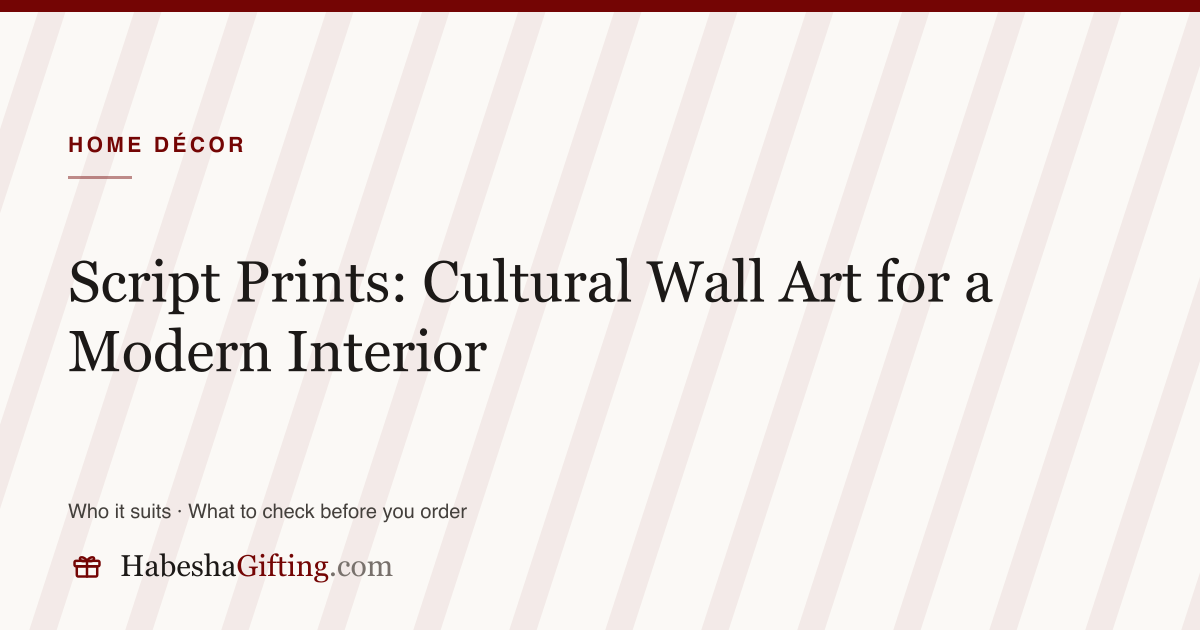
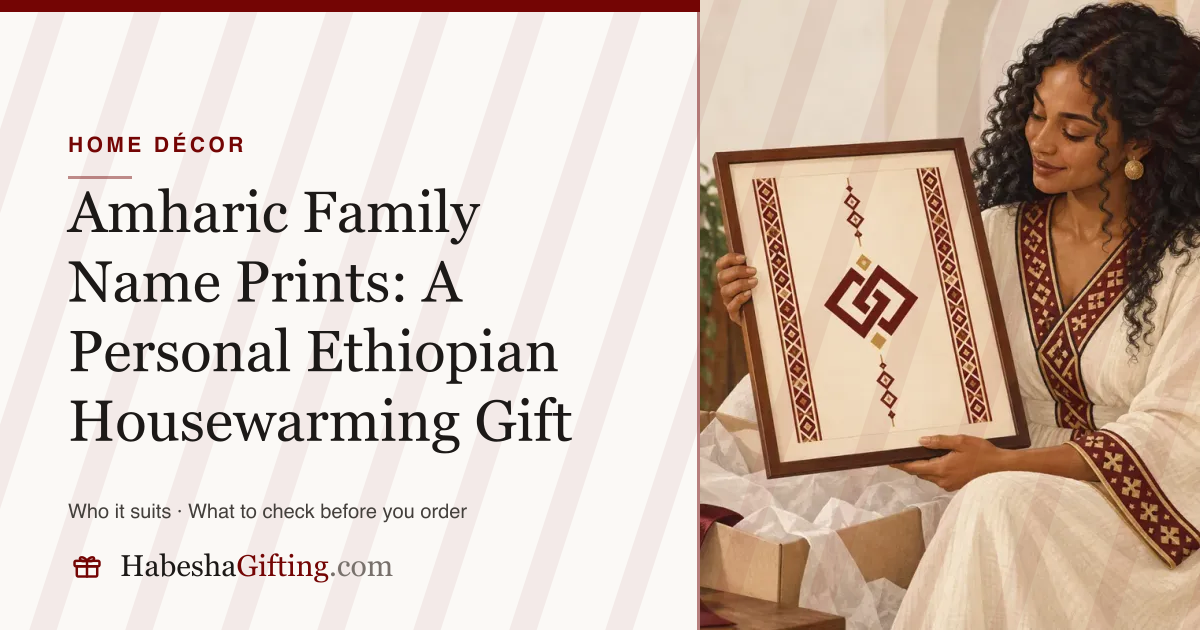
Improve Ethiopian and Eritrean gift guidance for search

diff --git a/src/app/gifts/[category]/page.tsx b/src/app/gifts/[category]/page.tsx
@@ -1,4 +1,5 @@
 import type { Metadata } from "next";
+import Link from "next/link";
 import { notFound } from "next/navigation";
 import { Breadcrumbs, JsonLd } from "@/components/ui/Breadcrumbs";
 import { CategoryCard } from "@/components/ui/CategoryCard";
@@ -58,6 +59,7 @@ export default async function CategoryPage({ params }: { params: Params }) {
   ];
 
   const path = routes.category(category.slug);
+  const isCultural = category.slug === "ethiopian-eritrean-gifts";
 
   const jsonLd = graph(
     ...webPageNode({
@@ -123,6 +125,75 @@ export default async function CategoryPage({ params }: { params: Params }) {
           })}
         </div>
       </section>
+
+      {isCultural && (
+        <section aria-labelledby="cultural-guide-heading" className="mt-20 max-w-4xl border-t border-line pt-12">
+          <p className="eyebrow">Choosing a meaningful gift</p>
+          <h2 id="cultural-guide-heading" className="mt-3 font-display text-3xl font-semibold text-ink">
+            How to choose an Ethiopian or Eritrean gift
+          </h2>
+          <div className="prose-editorial mt-6 space-y-5">
+            <p>
+              First, decide whether the gift should be used, displayed or kept as a personal
+              reminder. A <Link href={routes.guide("traditional-clay-jebena-coffee-pot")}>clay jebena</Link>
+              {" "}suits someone who already hosts coffee or wants to start. A {" "}
+              <Link href={routes.guide("woven-mesob-inspired-basket")}>woven mesob-inspired basket</Link>
+              {" "}is a home gift, but check its dimensions and intended use before buying.
+              A personalised print or piece of jewellery needs the recipient&rsquo;s preferred
+              name, language and spelling.
+            </p>
+            <p>
+              If you are unsure which tradition or language to reference, choose something
+              shared, such as a coffee gift, and ask a family member before ordering custom
+              text. A design described as &ldquo;Habesha&rdquo; can be appropriate across both
+              communities, but it cannot tell you whether a particular person would prefer
+              Amharic, Tigrinya or no writing at all.
+            </p>
+          </div>
+
+          <h3 className="mt-10 font-display text-2xl font-semibold text-ink">Common gift questions</h3>
+          <dl className="mt-5 space-y-7">
+            <div>
+              <dt className="font-semibold text-ink">What is a useful Habesha housewarming gift?</dt>
+              <dd className="mt-2 leading-relaxed text-ink-soft">
+                A coffee ceremony piece can be useful if the recipient hosts coffee. Check
+                whether they need a pot, tray or serving cups first; a duplicate may take up
+                precious space. Start with our {" "}
+                <Link href={routes.category("coffee-traditional-gifts")} className="text-brand underline-offset-4 hover:underline">coffee and traditional gifts</Link>
+                {" "}collections.
+              </dd>
+            </div>
+            <div>
+              <dt className="font-semibold text-ink">What should I check before buying a jebena as a gift?</dt>
+              <dd className="mt-2 leading-relaxed text-ink-soft">
+                Check the size, whether the pot is for use or display, what heat source it can
+                tolerate, and how it will be packed for shipping. The {" "}
+                <Link href={routes.guide("traditional-clay-jebena-coffee-pot")} className="text-brand underline-offset-4 hover:underline">clay jebena guide</Link>
+                {" "}explains these trade-offs.
+              </dd>
+            </div>
+            <div>
+              <dt className="font-semibold text-ink">Is an Amharic gift right for an Eritrean recipient?</dt>
+              <dd className="mt-2 leading-relaxed text-ink-soft">
+                It depends on the person and the message. Do not assume a shared Habesha identity
+                means the recipient wants Amharic text. Ask which language they use and verify
+                any custom wording before it is printed or engraved. Browse {" "}
+                <Link href={routes.subcategory(category.slug, "eritrean-inspired")} className="text-brand underline-offset-4 hover:underline">Eritrean gift ideas</Link>
+                {" "}for alternatives.
+              </dd>
+            </div>
+            <div>
+              <dt className="font-semibold text-ink">What makes a personalised cultural gift feel personal?</dt>
+              <dd className="mt-2 leading-relaxed text-ink-soft">
+                A name, phrase or date the recipient would choose themselves matters more than
+                a generic cultural motif. For script gifts, confirm the exact characters,
+                preview the layout and check the return policy before ordering. See the {" "}
+                <Link href={routes.guide("amharic-family-name-print")} className="text-brand underline-offset-4 hover:underline">Amharic family name print guide</Link>.
+              </dd>
+            </div>
+          </dl>
+        </section>
+      )}
 
       <section className="gift-panel mt-20 overflow-hidden rounded-card border border-line bg-cream p-8 sm:p-10">
         <SectionHeading

diff --git a/src/content/categories.ts b/src/content/categories.ts
@@ -363,10 +363,10 @@ export const categories: Category[] = [
     slug: "ethiopian-eritrean-gifts",
     title: "Ethiopian & Eritrean Gifts",
     icon: "🇪🇹",
-    tagline: "Cultural gifts rooted in both traditions, under one Habesha roof.",
-    heading: "Ethiopian & Eritrean Gifts",
+    tagline: "Ethiopian and Eritrean gift ideas, with practical guides to coffee, script, jewellery and home pieces.",
+    heading: "Ethiopian & Eritrean Gift Ideas",
     intro:
-      "Habesha is the umbrella here, not a flattening. Some gifts are distinctly Ethiopian, some distinctly Eritrean, and many belong to both. We label them honestly rather than blurring the difference.",
+      "Looking for a Habesha gift? Start with what the person will actually use: a coffee ceremony piece, something for their home, or a personal keepsake. Ethiopian and Eritrean traditions overlap, but language and design details matter. Browse the separate collections below, then read each buying guide for the questions to ask before ordering.",
     childLabel: "Collections",
     art: { hue: 100, motif: "weave" },
     inNav: false,
@@ -376,20 +376,20 @@ export const categories: Category[] = [
         slug: "ethiopian-inspired",
         title: "Ethiopian-Inspired Gifts",
         icon: "🇪🇹",
-        tagline: "Gifts drawing on Ethiopian craft, script and design.",
+        tagline: "Amharic script, Ethiopian design and gift ideas with a clear reason to give them.",
         heading: "Ethiopian Gift Ideas",
         intro:
-          "From Amharic script jewellery to habesha kemis-inspired textiles, these gifts draw specifically on Ethiopian craft traditions.",
+          "For an Ethiopian gift, look for a connection the recipient will recognise: an Amharic inscription, a design they enjoy wearing, or a useful piece for their home. Check the script and the seller's customisation details before ordering; a cultural label alone does not make a gift personal.",
         art: { hue: 95, motif: "cross" },
       },
       {
         slug: "eritrean-inspired",
         title: "Eritrean-Inspired Gifts",
         icon: "🇪🇷",
-        tagline: "Gifts drawing on Eritrean craft, script and design.",
+        tagline: "Tigrinya script and Eritrean-inspired keepsakes chosen for the person receiving them.",
         heading: "Eritrean Gift Ideas",
         intro:
-          "Tigrinya script pieces, Asmara-inspired design and Eritrean craft traditions — gifts that are specifically Eritrean rather than generically Habesha.",
+          "Eritrean gift ideas work best when the details match the person. If you choose a Tigrinya inscription or an Asmara reference, confirm the wording, spelling and design with someone who knows what the recipient would want. The guides below explain where each idea fits and what to check before buying.",
         art: { hue: 210, motif: "arch" },
       },
       {

diff --git a/src/content/products.coffee.ts b/src/content/products.coffee.ts
@@ -19,13 +19,13 @@ export const coffeeProducts: Product[] = [
     affiliateUrl: null,
     image: "/img/products/traditional-clay-jebena-coffee-pot",
     art: { hue: 22, motif: "vessel" },
-    updated: "2026-08-14",
+    updated: "2026-09-16",
     tags: ["coffee", "jebena", "ceremony", "ethiopian", "eritrean", "traditional", "kitchen"],
     placements: [
       { category: "coffee-traditional-gifts", subcategory: "jebena-coffee-pots" },
     ],
     guide: {
-      heading: "The Traditional Clay Jebena: What to Know Before You Buy One",
+      heading: "Ethiopian & Eritrean Jebena Gifts: Choosing a Traditional Clay Pot",
       standfirst:
         "A clay jebena is the most recognisable gift you can give a Habesha household — and the one most likely to be bought wrongly. Here is how to choose the right one.",
       why: [
@@ -49,6 +49,10 @@ export const coffeeProducts: Product[] = [
         "Unglazed clay must be cured before first use, usually by boiling water in it once or twice and discarding it. If your recipient will not do this, a glazed or ceramic version is more forgiving.",
         "Ask, discreetly, what size they need. A pot sized for two people is a frustrating gift for someone who hosts twelve.",
         "Clay is heavy and brittle. If it is being posted internationally, packaging quality matters more than the pot itself.",
+      ],
+      questions: [
+        { question: "Is a clay jebena a good housewarming gift?", answer: "Yes, if the recipient wants to make coffee in one and has room to keep it. Ask whether they already own a pot and how many guests they usually serve before choosing a size." },
+        { question: "Can every clay jebena go on a stove?", answer: "No. Some are decorative only. Check the seller's heat-use instructions for the exact pot and the recipient's heat source before ordering; do not infer stovetop safety from its shape." },
       ],
       pros: [
         "Traditional material with the best heat behaviour",

diff --git a/src/content/products.cultural.ts b/src/content/products.cultural.ts
@@ -131,13 +131,13 @@ export const culturalProducts: Product[] = [
     affiliateUrl: null,
     image: "/img/products/amharic-family-name-print",
     art: { hue: 25, motif: "arch" },
-    updated: "2026-07-05",
+    updated: "2026-09-16",
     tags: ["print", "wall art", "amharic", "personalized", "home decor", "housewarming", "typography"],
     placements: [
       { category: "personalized-gifts", subcategory: "personalized-home-decor" },
     ],
     guide: {
-      heading: "Script Prints: Cultural Wall Art for a Modern Interior",
+      heading: "Amharic Family Name Prints: A Personal Ethiopian Housewarming Gift",
       standfirst:
         "A well-set Ge'ez typographic print is the easiest way to make a contemporary home read as Habesha without a single cliché.",
       why: [
@@ -161,6 +161,10 @@ export const culturalProducts: Product[] = [
         "Check whether the price includes a frame. Many listings show a framed mock-up and ship the print alone.",
         "Ask about the font. Poorly digitised Ge'ez typefaces have awkward character spacing that a reader will notice immediately even if you would not.",
         "Confirm print size against the wall you have in mind. Prints photograph without scale and A4 is smaller than most people picture.",
+      ],
+      questions: [
+        { question: "How do I check an Amharic name before ordering a print?", answer: "Ask the recipient or a fluent family member for the exact spelling in Ge'ez script, then compare every character in the seller's proof. Do not rely on automatic transliteration for a family name." },
+        { question: "Does a custom name print usually include a frame?", answer: "It depends on the listing. Check the selected size and variation for a frame, and confirm whether the item ships as a physical print or a digital file." },
       ],
       pros: [
         "Fits modern interiors naturally",

diff --git a/src/app/gift-guides/[slug]/page.tsx b/src/app/gift-guides/[slug]/page.tsx
@@ -166,6 +166,7 @@ export default async function GuidePage({ params }: { params: Params }) {
     { id: sectionId("What makes it a good gift"), label: "What makes it a good gift" },
     { id: sectionId("Important considerations"), label: "Important considerations" },
     { id: "pros", label: "Pros" },
+    ...(product.guide.questions?.length ? [{ id: "reader-questions", label: "Common questions" }] : []),
     ...(alternatives.length > 0 ? [{ id: "alternatives-heading", label: "Alternatives" }] : []),
   ];
 
@@ -307,6 +308,22 @@ export default async function GuidePage({ params }: { params: Params }) {
               </div>
             </section>
           </div>
+
+          {product.guide.questions && product.guide.questions.length > 0 && (
+            <section className="mt-12 scroll-mt-24" aria-labelledby="reader-questions">
+              <h2 id="reader-questions" className="font-display text-2xl font-semibold text-ink">
+                Common questions about this gift
+              </h2>
+              <dl className="mt-6 space-y-6">
+                {product.guide.questions.map(({ question, answer }) => (
+                  <div key={question}>
+                    <dt className="font-semibold text-ink">{question}</dt>
+                    <dd className="mt-2 leading-relaxed text-ink-soft">{answer}</dd>
+                  </div>
+                ))}
+              </dl>
+            </section>
+          )}
 
           {alternatives.length > 0 && (
             <section className="mt-16" aria-labelledby="alternatives-heading">

diff --git a/src/content/types.ts b/src/content/types.ts
@@ -145,6 +145,8 @@ export interface Guide {
   whyGift: string[];
   /** Honest caveats before buying. */
   considerations: string[];
+  /** Specific reader questions answered in the article body. */
+  questions?: { question: string; answer: string }[];
   pros: string[];
   cons: string[];
   /** Slugs of alternative products. Resolved at render time. */
